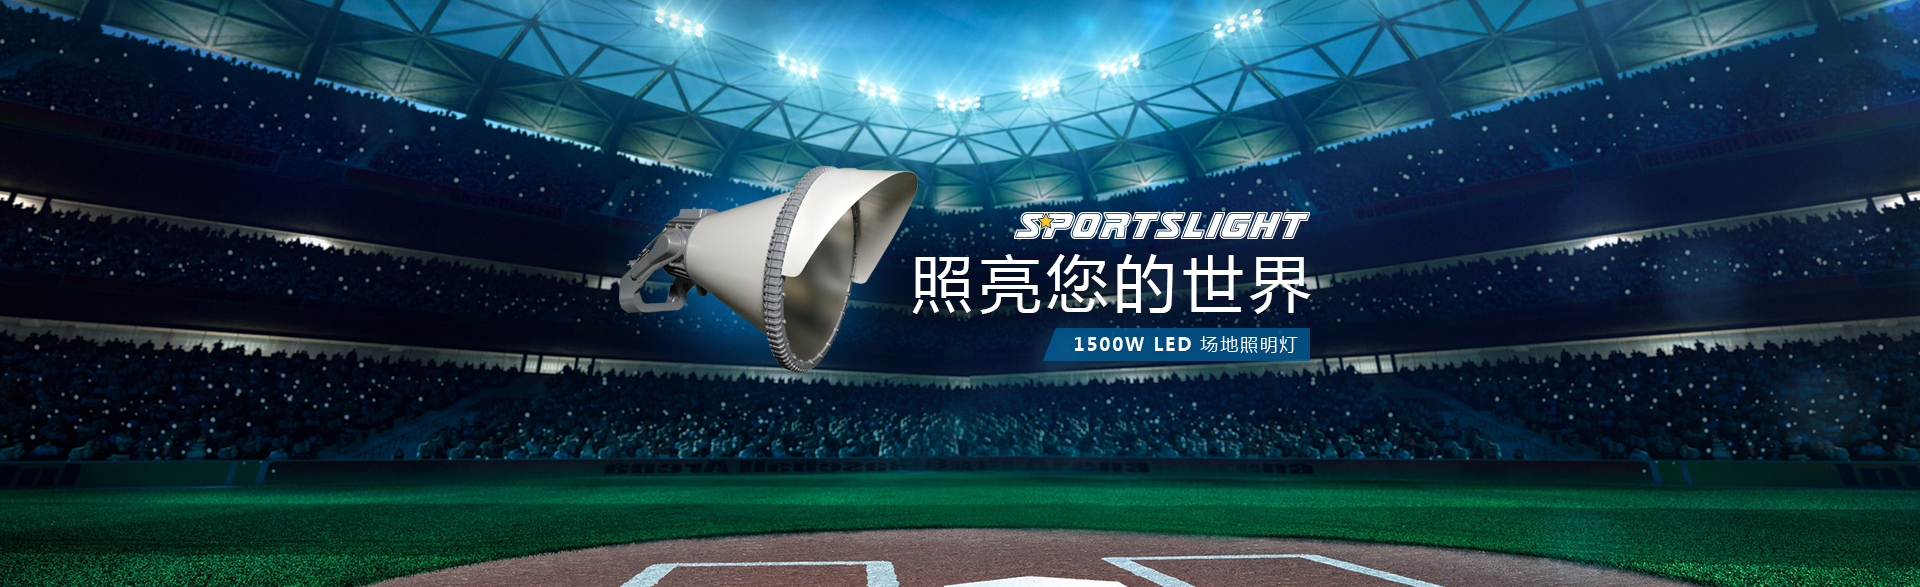
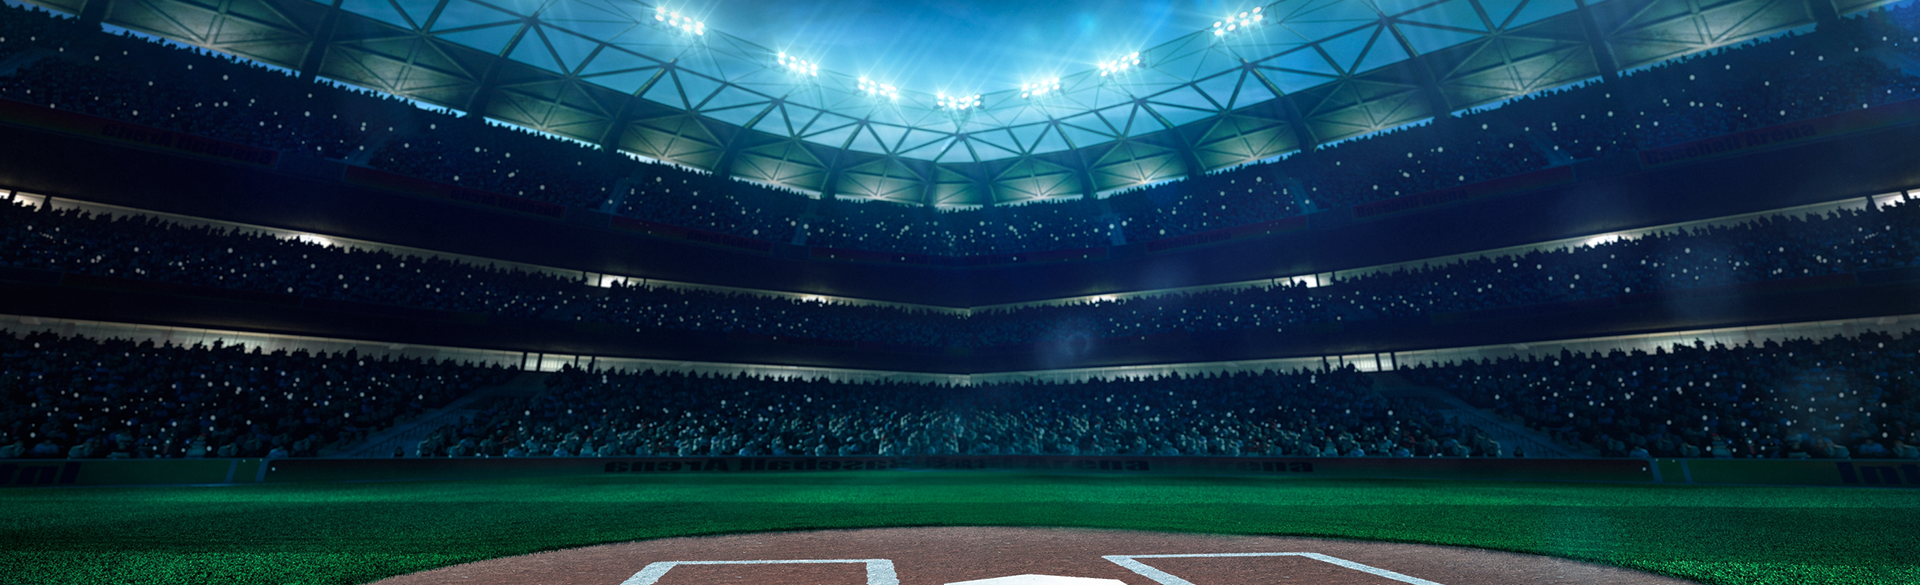
修改首页

diff --git a/wanjie/index.html b/wanjie/index.html
@@ -19,39 +19,39 @@
 	<a class="navbar-brand wanjie_logo" href="./index.html"></a>
 	<span class="glyphicon glyphicon-align-justify wanjie_button" aria-hidden="true"></span>
     <ul class="nav nav-pills" id="wanjie_title">
-		<li><a href="./index.html">首页</a></li>
-		<li><a href="./about.html">关于</a></li>
+		<li><a href="./index.html">首页</a><em class="em1"></em></li>
+		<li><a href="./about.html">关于</a><em class="em2"></em></li>
 		<li class="dropdown">
-			<a class="dropdown-toggle" data-toggle="dropdown" href="./product.html">产品<span class="caret"></span></a>
+			<a class="dropdown-toggle" data-toggle="dropdown" href="./product.html">产品<span class="caret"></span></a><em class="em3"></em>
 			<ul class="dropdown-menu wanjie_dr">
 				<li><a href="./product.html">SL1500</a></li>
 				<li><a href="./product_750.html">SL750</a></li>
 			</ul>
 		</li>
 		<li class="dropdown">
-			<a class="dropdown-toggle" data-toggle="dropdown" href="./program.html">应用方案<span class="caret"></span></a>
+			<a class="dropdown-toggle" data-toggle="dropdown" href="./program.html">应用方案<span class="caret"></span></a><em class="em4"></em>
 			<ul class="dropdown-menu wanjie_dr">
 				<li><a href="./program.html?#anli">应用案例</a></li>
 				<li><a href="./program.html?1#fanwei">应用范围</a></li>
-				<li><a href="./program.html?2#hid">HID V.S. LED</a></li>
+				<li><a href="./program.html?2#hid" class="hid">HID V.S.LED</a></li>
 			</ul>
 		</li>
-		<li><a href="./call.html">联系我们</a></li>
+		<li><a href="./call.html">联系我们</a><em class="em5"></em></li>
     </ul>
 </nav>
 <!-- 导航结束 -->
 <div class="wanjie_banner wanjie_banner_2">
-	<img src="./images/banner.png">
+	<div class="wanjie_banner_box"></div>
 </div>
 <div class="wanjie_page">
 	<ul>
 		<li>
 			<img src="./images/page_1.png">
-			<video src="http://ali.ldsnwangjun.cn/Final.mp4" controls="controls" loop="loop" autoplay="autoplay" id="media"></video>
+			<!-- <video src="http://ali.ldsnwangjun.cn/Final.mp4" controls="controls" loop="loop" autoplay="autoplay" id="media"></video> -->
 		</li>
-		<li><a href="" class="wanjie_img"><img src="./images/page_2.png"><span>应用案例</span></a></li>
-		<li><a href="" class="wanjie_img"><img src="./images/page_3.png"><span>应用范围</span></a></li>
-		<li><a href="" class="wanjie_img"><img src="./images/page_4.png"><span>HID V.S. LED</span></a></li>
+		<li><a href="./program.html?#anli" class="wanjie_img"><img src="./images/page_2.png"><span>应用案例</span></a></li>
+		<li><a href="./program.html?1#fanwei" class="wanjie_img"><img src="./images/page_3.png"><span>应用范围</span></a></li>
+		<li><a href="./program.html?2#hid" class="wanjie_img"><img src="./images/page_4.png"><span>HID V.S. LED</span></a></li>
 	</ul>
 </div>
 <!-- 页尾开始 -->
@@ -79,11 +79,11 @@ $(document).ready(function() {
 		$('#wanjie_title_m').css('display', 'none');
 		lock = 1;
 	})
-	$('#wanjie_title a').on('mouseover', function() {
-		$(this).css('border-bottom', '1px solid #2F7096');
+	$('#wanjie_title li').on('mouseover', function() {
+		$(this).find('em').css('display', 'block');
 	})
 	$('#wanjie_title a').on('mouseout', function() {
-		$(this).css('border-bottom', '');
+		$('em').css('display', 'none');
 	})
 	$('.wanjie_img').on('mouseover', function() {
 		$(this).find('span').css('margin-top', '-38px')
@@ -100,9 +100,13 @@ $(document).ready(function() {
 		if (size <= 767) {
 			$('#wanjie_title').attr('id', 'wanjie_title_m');
 			$('.wanjie_button').css('display', 'block');
+			$('.wanjie_img').find('span').css('margin-top', '-38px')
+			$('.wanjie_banner_box').css('width', '100%')
 		} else {
 			$('#wanjie_title_m').attr('id', 'wanjie_title');
 			$('.wanjie_button').css('display', 'none');
+			$('.wanjie_img').find('span').css('margin-top', '0px')
+			$('.wanjie_banner_box').css('width', '597px')
 		}
 	}
 })

diff --git a/wanjie/css/common.css b/wanjie/css/common.css
@@ -19,6 +19,28 @@ body {
 #wanjie_title {
 	float: right;
 }
+.em1 {
+	width: 25px;
+}
+.em2 {
+	width: 25px;
+}
+.em3 {
+	width: 40px;
+}
+.em4 {
+	width: 66px;
+}
+.em5 {
+	width: 55px;
+}
+
+#wanjie_title em {
+	display: none;
+    border-bottom: 1px solid #2F7096;
+    margin: 0 auto;
+    margin-top: -5px;
+}
 #wanjie_title>li>a:focus, #wanjie_title>li>a:hover {
     background-color: transparent;
     /*text-decoration: underline;*/
@@ -33,6 +55,10 @@ body {
 .wanjie_banner {
 	width: 100%;
 	float: left;
+	background-image: url('./../images/banner.png');
+	height: 389px;
+    background-size: 100% 100%;
+    background-repeat: no-repeat;
 }
 img {
 	width: 100%;
@@ -59,6 +85,7 @@ li {
 }
 .wanjie_footer_inner {
 	padding: 80px;
+	color: #727171;
 }
 .wanjie_footer_inner span {
 	margin-left: 20px;
@@ -147,6 +174,16 @@ img{
 	top: 21%;
 	left: 2.5%;
 }
+.wanjie_banner_box {
+	background-image: url('./../images/banner_cover.png');
+	width: 597px;
+    height: 320px;
+    background-size: 100%;
+    background-position: center;
+    background-repeat: no-repeat;
+    margin: 0 auto;
+}
+
 .banner_text .inner_text{
 	font-size: 24px;
 	display: block;
@@ -225,11 +262,11 @@ img{
     display: none;
 }
 #wanjie_title_m {
-	width: 88px;
+	width: 90px;
     text-align: center;
     background-color: #015e98;
     float: right;
-    top: 60px;
+    top: 58px;
     position: absolute;
     right: 0px;
     display: none;
@@ -241,6 +278,19 @@ img{
 }
 #wanjie_title_m a {
 	color: #fff;
+}
+#wanjie_title_m .wanjie_dr {
+	min-width: 60px;
+	margin-top: 0px;
+	border-radius: 0px;
+	margin-left: -2px;
+    background-color: #8d8883;
+    overflow: hidden;
+    width: 90px;
+    position: relative;
+}
+#wanjie_title_m .hid {
+	padding-left: 0px !important;
 }
 #wanjie_title_m>li>a:focus, #wanjie_title_m>li>a:hover {
     background-color: transparent;
